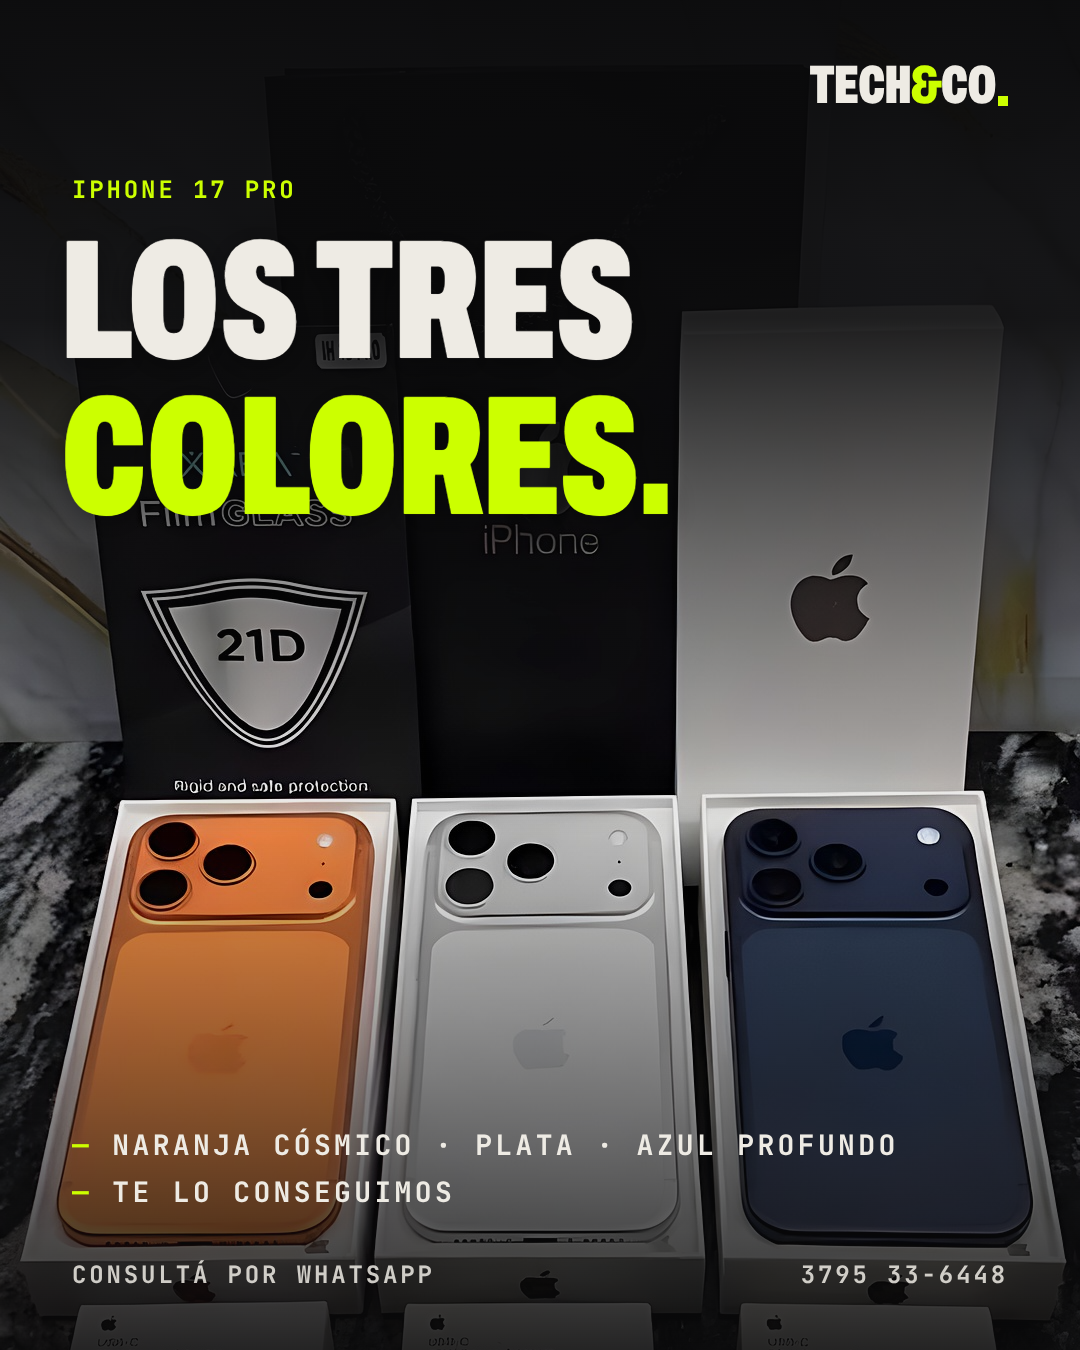
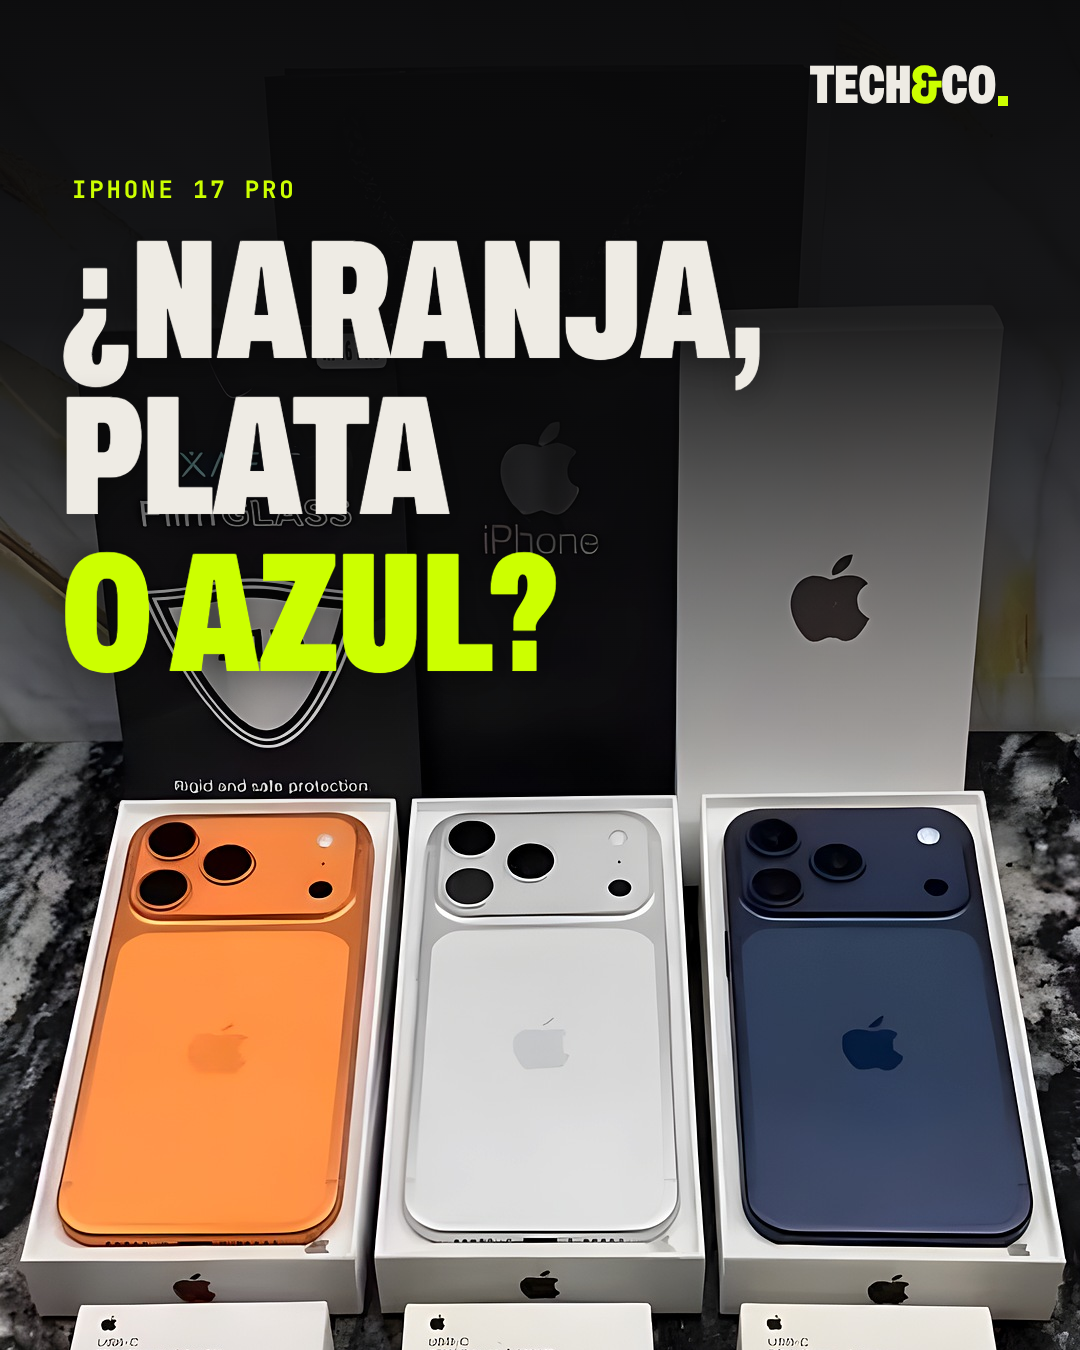
Posts 17 Pro: hooks nuevos («¿Cuál es el tuyo?», «¿Naranja, plata o azul?»), sin datos ni pie
Claude-Session: https://claude.ai/code/session_01QjqnXA2NEseQ99853TgKmF

diff --git a/plantillas/foto.html b/plantillas/foto.html
@@ -48,10 +48,10 @@
 const FOTOS = {
   naranja: { foto: "iphone-17-pro_naranja_mano", ojo: "iPhone 17 Pro", titulo: "Naranja<br><b>cósmico.</b>", t: "--t-l",
              datos: ["Swap o en caja sellada", "Te lo conseguimos"], pos: "50% 10%" },
-  colores: { foto: "iphone-17-pro_tres-colores_mano", ojo: "iPhone 17 Pro", titulo: "Elegí<br><b>tu color.</b>", t: "--t-m",
-             datos: ["Naranja cósmico · Plata · Azul profundo", "Swap o en caja sellada"], pos: "50% 0%" },
-  cajas: { foto: "iphone-17-pro_tres-colores_cajas", ojo: "iPhone 17 Pro", titulo: "Los tres<br><b>colores.</b>", t: "--t-l",
-           datos: ["Naranja cósmico · Plata · Azul profundo", "Te lo conseguimos"], pos: "50% 0%" },
+  colores: { foto: "iphone-17-pro_tres-colores_mano", ojo: "iPhone 17 Pro", titulo: "¿Cuál es<br><b>el tuyo?</b>", t: "--t-m",
+             datos: [], limpio: true, pos: "50% 0%" },
+  cajas: { foto: "iphone-17-pro_tres-colores_cajas", ojo: "iPhone 17 Pro", titulo: "¿Naranja, plata<br><b>o azul?</b>", t: "--t-l",
+           datos: [], limpio: true, pos: "50% 0%" },
   "14pro": { foto: "iphone-14-pro_plata_accesorios", ojo: "iPhone 14 Pro · Swap", titulo: "Pro, a tu<br><b>alcance.</b>", t: "--t-l",
              datos: ["Revisado uno por uno", "Te lo conseguimos"], pos: "50% 100%" },
   "13pro": { foto: "iphone-13-pro_plata_accesorios", ojo: "iPhone 13 Pro · Swap", titulo: "Un Pro<br><b>que rinde.</b>", t: "--t-l",
@@ -73,12 +73,14 @@ $("ojo").textContent = F.ojo;
 $("titulo").innerHTML = F.titulo;
 $("titulo").style.fontSize = `var(${F.t})`;
 $("datos").innerHTML = F.datos.map((d) => `<span>${d}</span>`).join("");
+// limpio: sin datos ni pie (solo el hook y la foto)
+if (F.limpio) { $("pie").remove(); document.querySelector(".velo-abajo").remove(); }
 const arriba = hist ? 250 : 64;
 $("cabeza").style.top = arriba + "px";
 $("ojo").style.top = arriba + 110 + "px";
 $("titulo").style.top = arriba + 160 + "px";
 $("datos").style.bottom = (hist ? 330 : 140) + "px";
-$("pie").style.bottom = (hist ? 250 : 60) + "px";
+if ($("pie")) $("pie").style.bottom = (hist ? 250 : 60) + "px";
 window.PLANTILLA = { duracion: 1000, async listo() { await document.fonts.ready; await $("foto").decode(); }, ir() {} };
 </script>
 </body>
